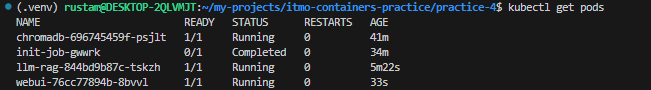
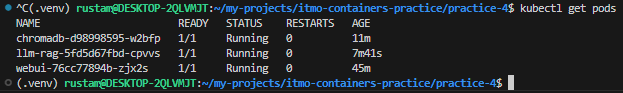
move init to llm_rag init container

diff --git a/practice-4/README.md b/practice-4/README.md
@@ -28,7 +28,6 @@ minikube image load rag.tar
 kubectl create configmap llm-config --from-env-file=.env
 
 kubectl apply -f manifests/chromadb.yaml
-kubectl apply -f manifests/init.yaml
 kubectl apply -f manifests/llm_rag.yaml
 kubectl apply -f manifests/webui.yaml
 ```
@@ -36,11 +35,11 @@ kubectl apply -f manifests/webui.yaml
 
 ### Структура
 
-Кластер состоит из 4 подов:
+Кластер состоит из 4 компонентов:
 1. `ChromaDB` - Векторное хранилище данных
 2. `LLM-RAG` - API, представляющее сущность LLM
 3. `WebUI` - Web-интерфейс
-4. `Init` - Инициализатор базы данных, если она пуста
+4. `Init` - Инит-контейнер, инициализирующий базу данных, если она пуста
 
 ![alt text](images/pods.png)
 
